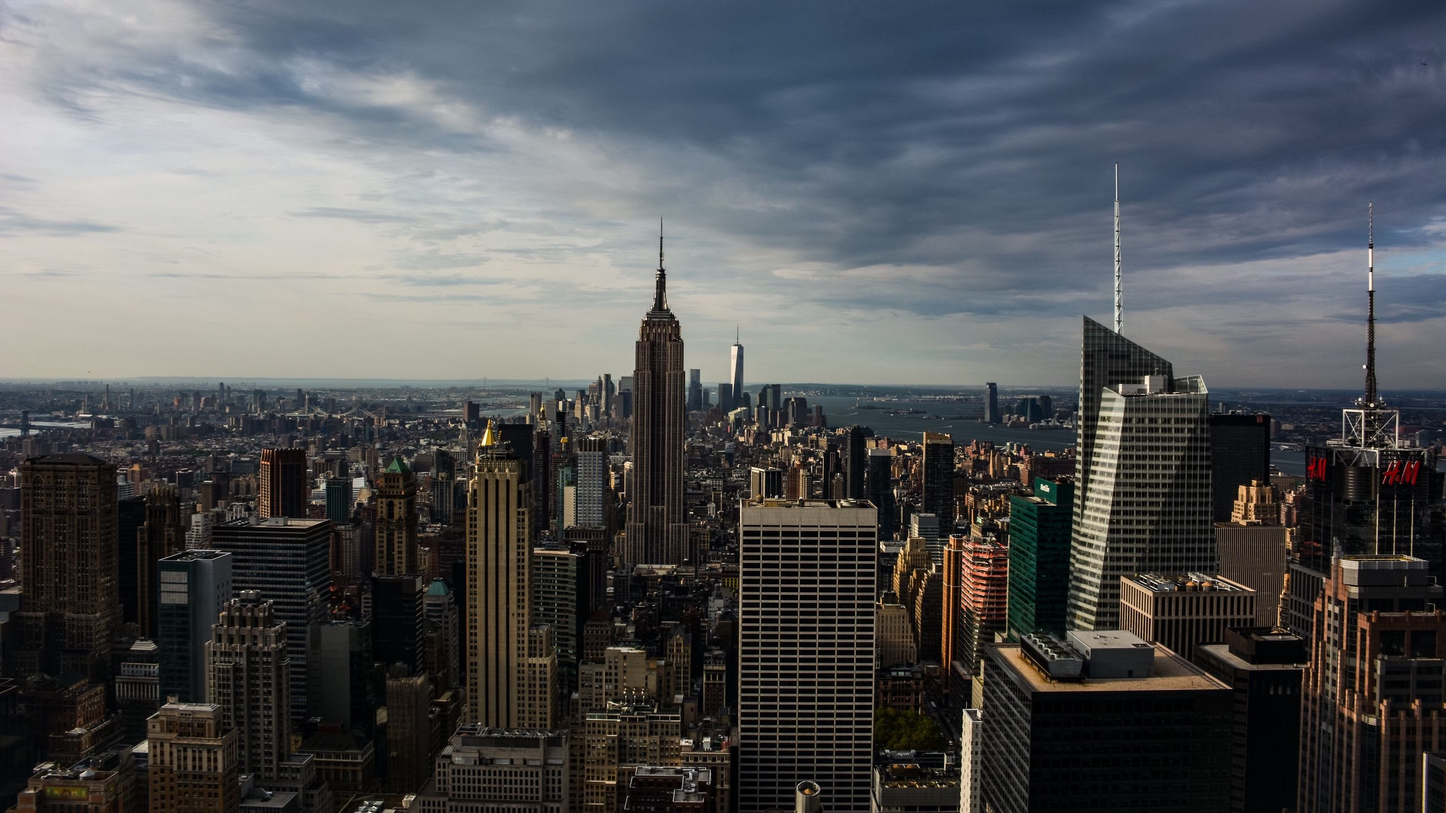
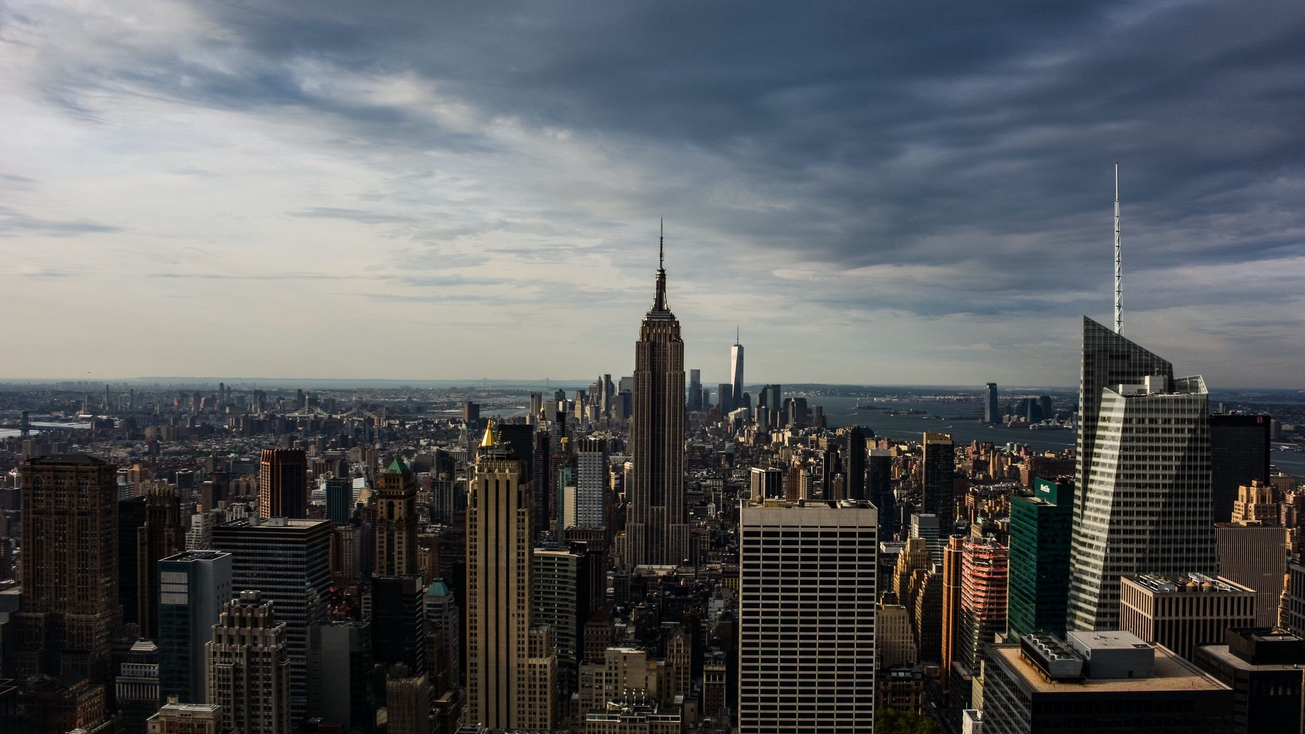
Первый экран: обрезанный кадр владельца

diff --git a/index.html b/index.html
@@ -8,7 +8,7 @@
 <link rel="preconnect" href="https://fonts.googleapis.com">
 <link rel="preconnect" href="https://fonts.gstatic.com" crossorigin>
 <link rel="stylesheet" href="https://fonts.googleapis.com/css2?family=Libertinus+Serif:ital,wght@0,400;0,600;0,700;1,400&family=Cormorant+Garamond:ital,wght@0,300;0,400;0,500;0,600;1,300;1,400&family=Cinzel:wght@400;500;600&family=Barlow:wght@300;400;500;600&family=Commissioner:wght@300;400;500;600&display=swap">
-<link rel="stylesheet" href="assets/css/style.css?v=5daa9dc4">
+<link rel="stylesheet" href="assets/css/style.css?v=87d8d4ad">
 </head>
 <body>
 
@@ -68,7 +68,7 @@
            полосой почти один к одному, и растянутая версия только
            крошила бы пиксели. -->
       <source media="(max-width:720px)" srcset="assets/img/hero-m.jpg?v=cdcdb51e">
-      <img class="media" src="assets/img/hero.jpg?v=e5f0b2c2" alt="" fetchpriority="high">
+      <img class="media" src="assets/img/hero.jpg?v=2ba8894e" alt="" fetchpriority="high">
     </picture>
     <!-- Видеофон ложится поверх снимка сам, когда сможет играть.
          Раскройте блок, когда вернём ролик.

diff --git a/assets/css/style.css b/assets/css/style.css
@@ -544,7 +544,7 @@ h4{ font-size:clamp(19px,2vw,24px); letter-spacing:0; }
     filter:brightness(.35);
     animation:none;
     transform:none;
-    object-position:30.3% center;
+    object-position:center center;
   }
 }
 
@@ -552,7 +552,7 @@ h4{ font-size:clamp(19px,2vw,24px); letter-spacing:0; }
    зависит от пропорций окна: чем оно ниже, тем шире обрезаются бока.
    Два значения покрывают весь парк мониторов — 16:10 выше, 16:9 здесь. */
 @media (min-width:721px) and (min-aspect-ratio:17/10){
-  .hero-bg .media{ object-position:22.0% center; }
+  .hero-bg .media{ object-position:center center; }
   .hero:has(.media) .hero-vig{ background:none; }
 }
 
